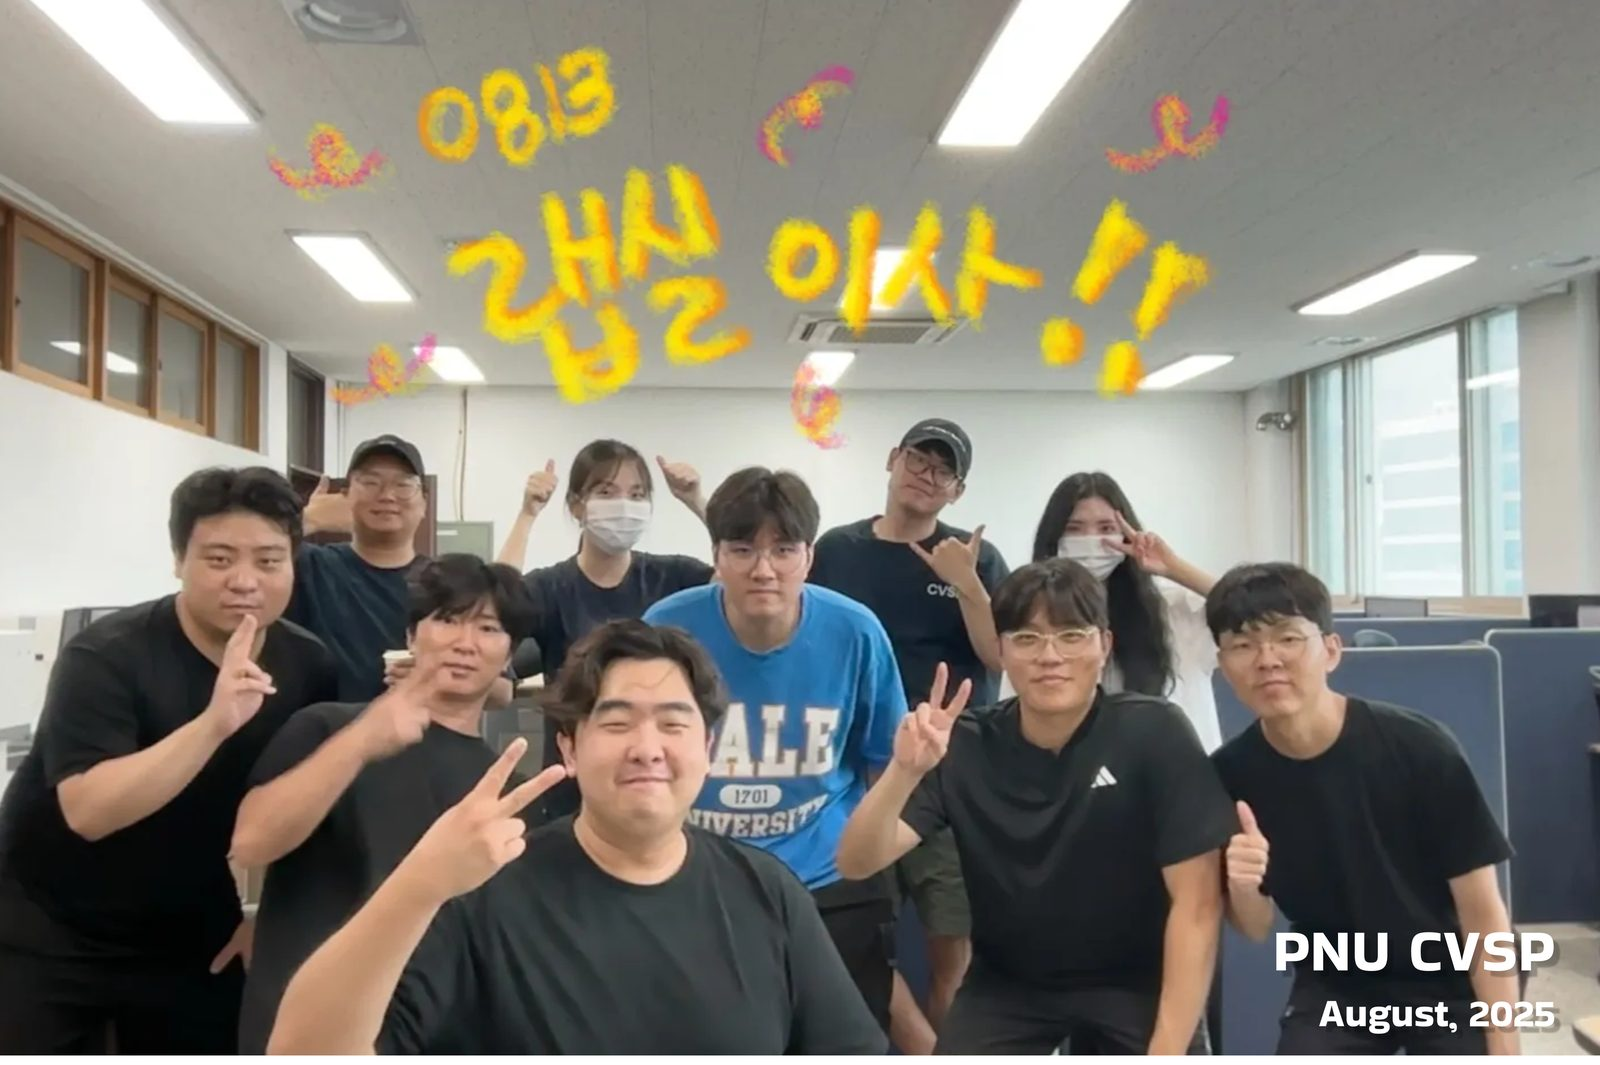
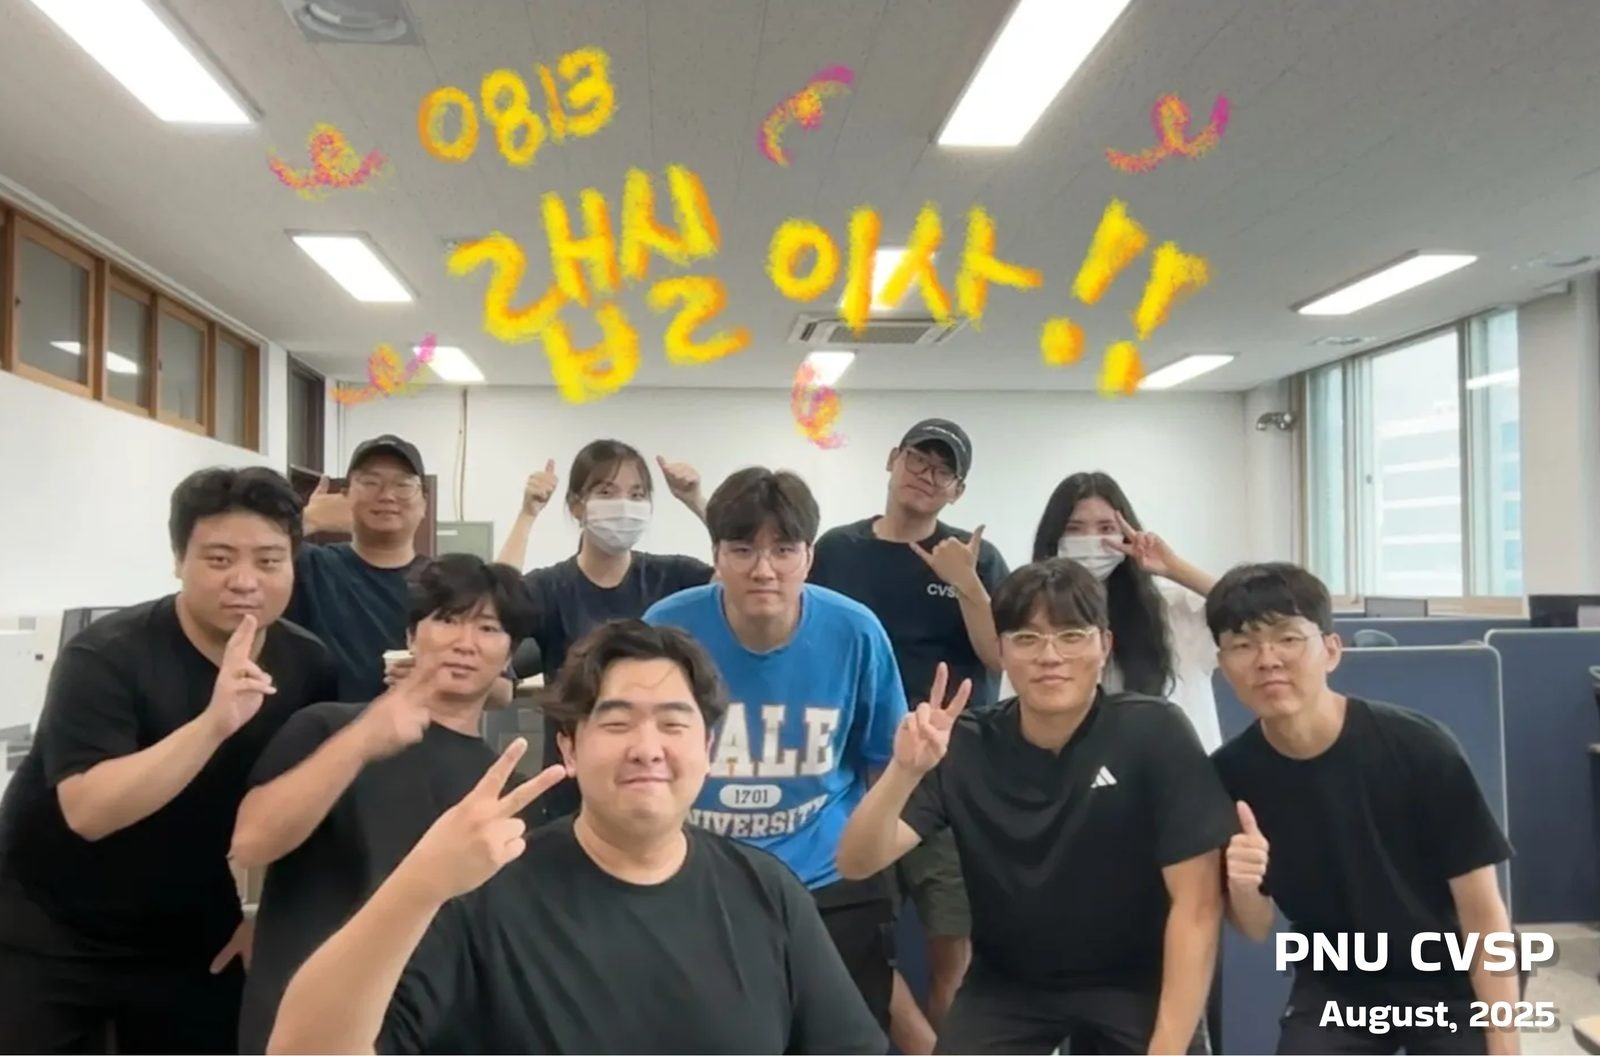
Trim the white strip under a home slide photo; the sync trims plain white edges from new slides
Claude-Session: https://claude.ai/code/session_01YVp5MUkbdXqn3ijZNuaaEm

diff --git a/tools/notion-sync/sync.py b/tools/notion-sync/sync.py
@@ -535,6 +535,22 @@ def text(b):
     return re.sub(r"\s+", " ", plain((b.get("properties") or {}).get("title"))).strip()
 
 
+def trim_white_edges(path):
+    """Cut plain white strips off the edges of a slide photo (e.g. a white line left under an exported image)."""
+    from PIL import Image, ImageStat
+    im = Image.open(path).convert("RGB"); w, h = im.size
+    def white(box):
+        st = ImageStat.Stat(im.crop(box).convert("L"))
+        return st.mean[0] > 240 and st.stddev[0] < 12
+    t, b, l, r = 0, h, 0, w
+    while b - t > h * 0.8 and white((0, b - 1, w, b)): b -= 1
+    while b - t > h * 0.8 and white((0, t, w, t + 1)): t += 1
+    while r - l > w * 0.8 and white((r - 1, 0, r, h)): r -= 1
+    while r - l > w * 0.8 and white((l, 0, l + 1, h)): l += 1
+    if (t, b, l, r) != (0, h, 0, w):
+        im.crop((l, t, r, b)).save(path, quality=85)
+
+
 def home_slides(rm):
     """Photos of the 'oopy:slide' callout on the main page -> images/home/slides/, in Notion order."""
     B = rm.get("block", {})
@@ -559,6 +575,7 @@ def home_slides(rm):
             if not got:
                 if path: out.append(path); keep.add(b["id"])
                 continue
+            if got.lower().endswith((".jpg", ".jpeg", ".png")): trim_white_edges(got)
             path = os.path.relpath(got, ROOT).replace(os.sep, "/")
             cache[b["id"]] = {"key": key, "path": path}
         out.append(path); keep.add(b["id"])
